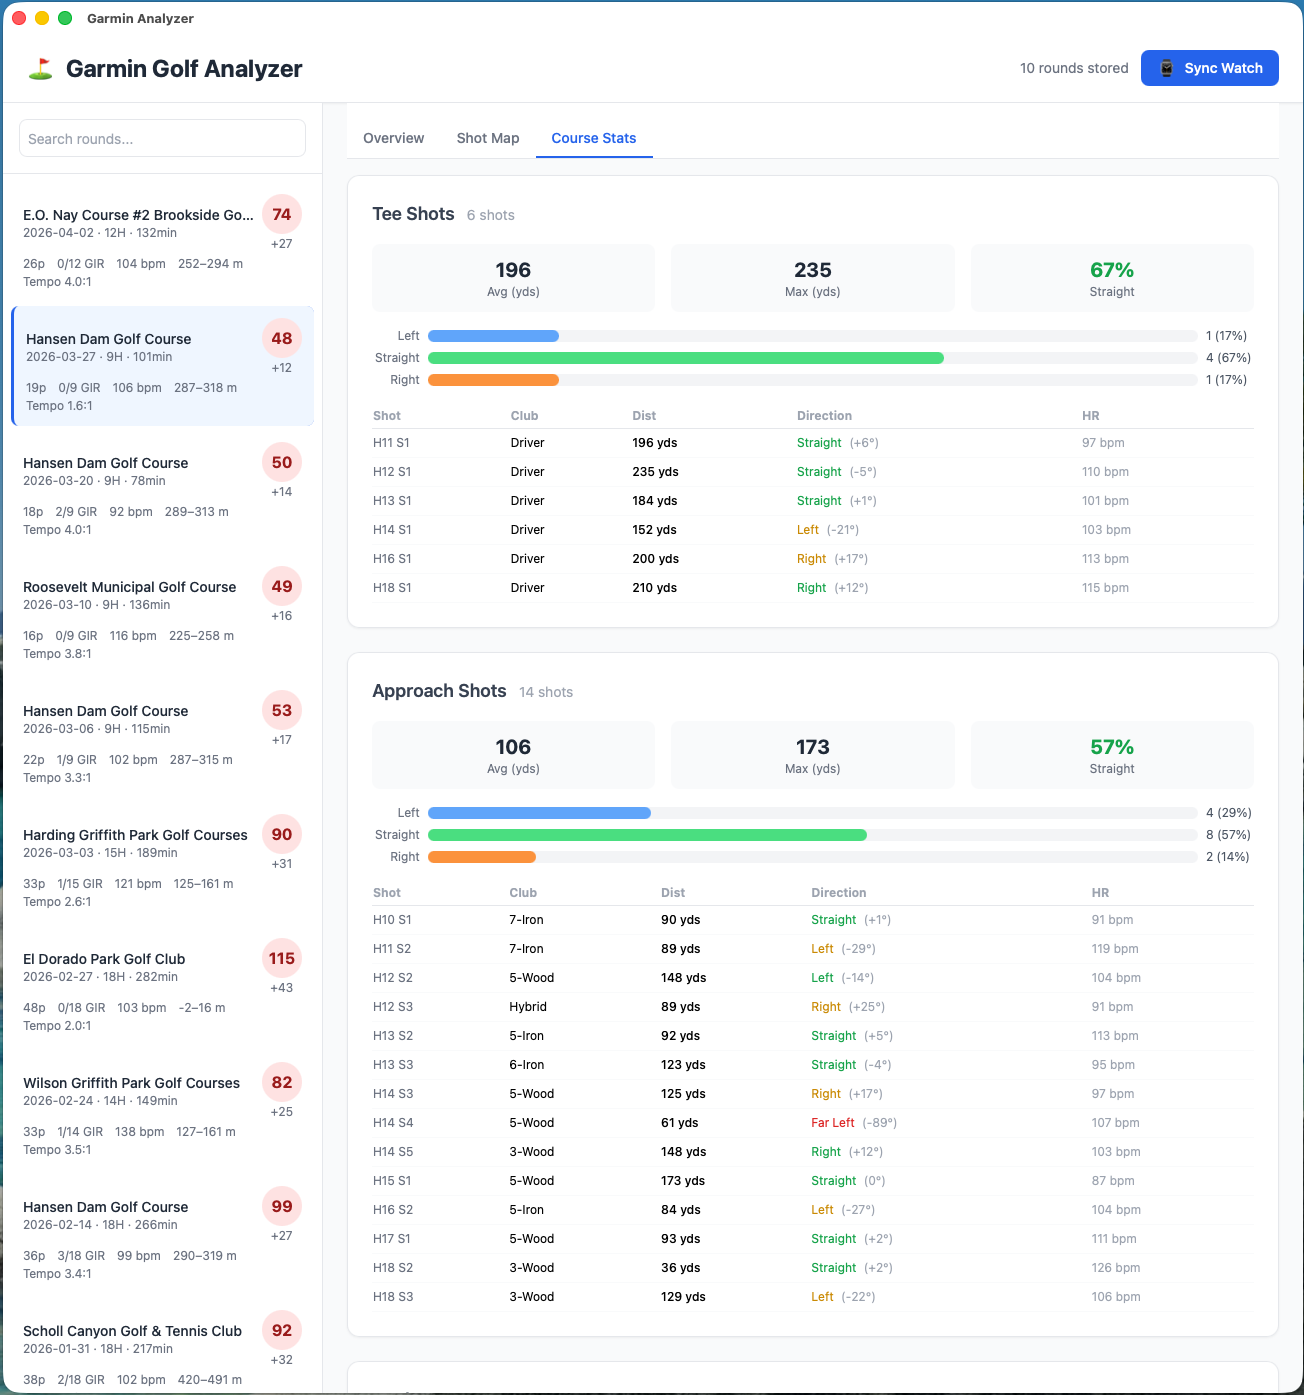
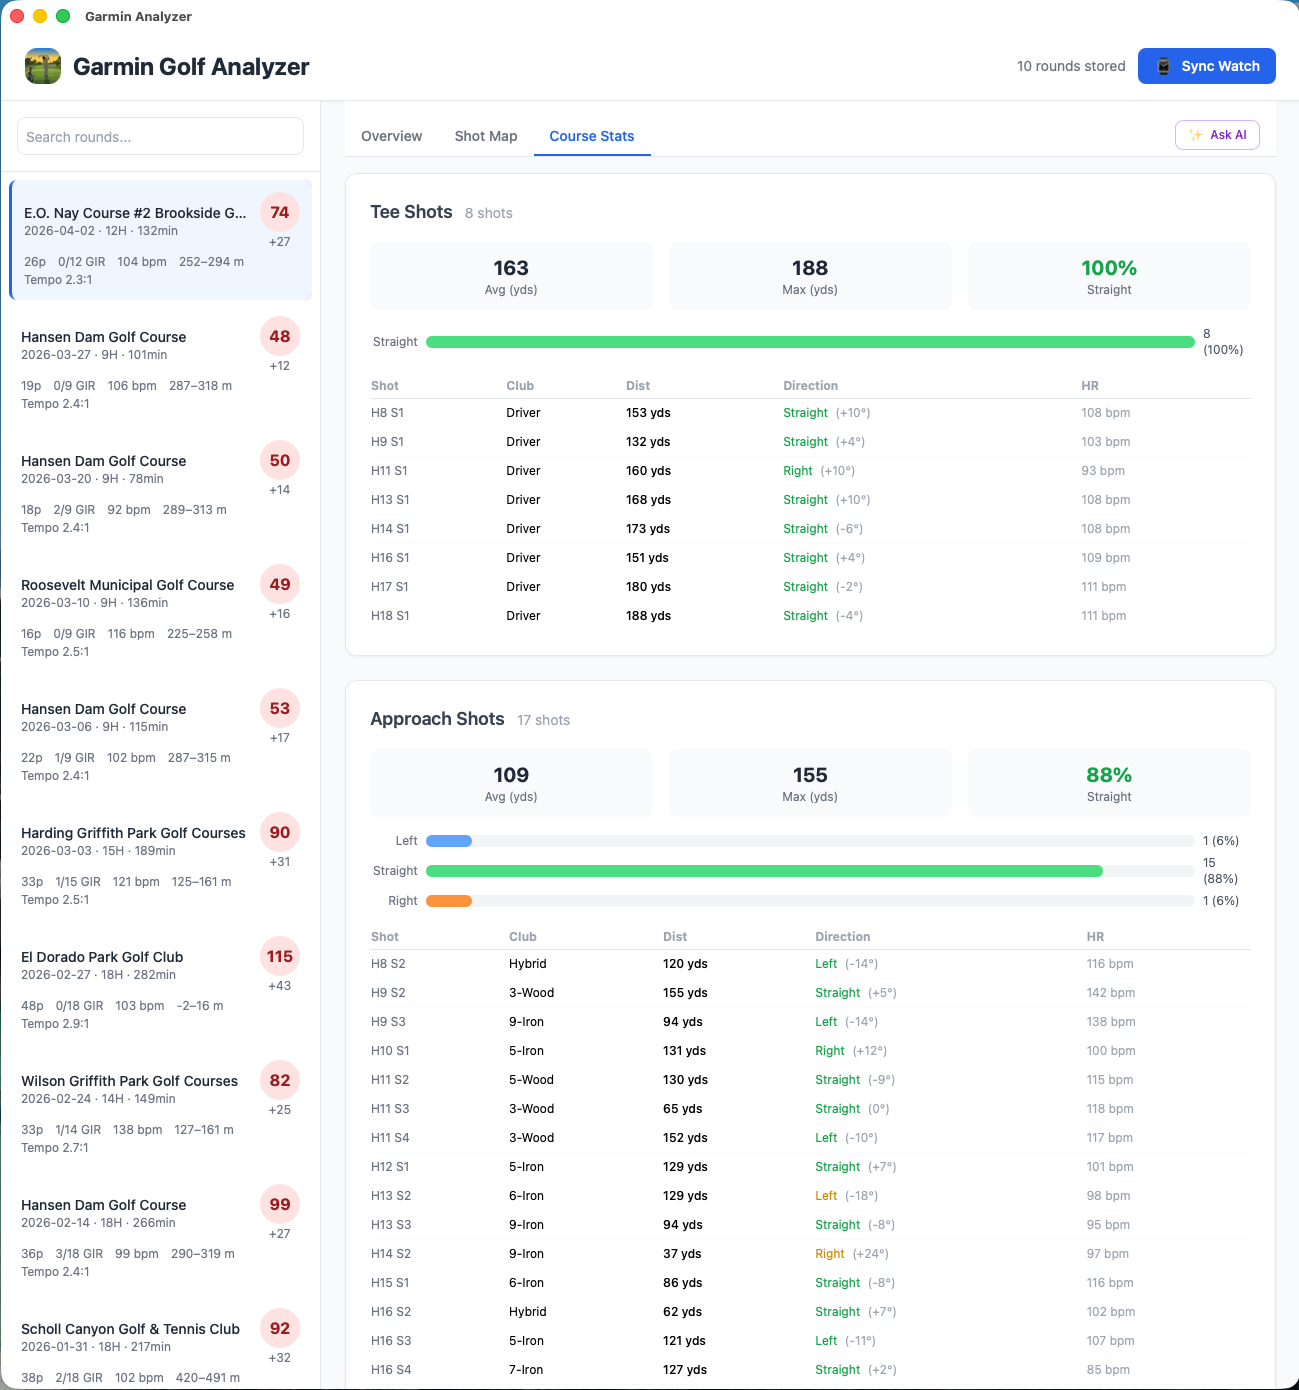
README: add Features section, swing tempo, Ask AI, updated screenshots

diff --git a/README.md b/README.md
@@ -11,6 +11,38 @@ Garmin watches store golf activity data in two separate FIT files per round:
 
 This app reads both files, links them by timestamp, and presents a combined view of golf performance and health data.
 
+## Features
+
+### Overview Tab
+Round summary with score, distance walked, calories, avg/max HR, altitude range, and avg swing tempo. Includes a hole-by-hole scorecard with color-coded results (eagle/birdie/par/bogey), GIR, fairways hit, and a health section showing Body Battery drain, stress, and HR zone breakdown.
+
+### Shot Map Tab
+Interactive Leaflet map showing every shot as a colored line and dot, color-coded by club category (Driver, Fairway Wood, Iron, Wedge, Putter). Features:
+- Hole selector buttons to zoom into individual holes
+- Club abbreviation labels (`Dr`, `W3`, `I7`, `PW`, `H` etc.) next to each shot dot
+- Distance in yards on each shot line
+- Putt count shown inline next to each hole number marker
+- Hover popups on shots, labels, and hole markers showing club, distance, HR, altitude, and swing tempo
+- Scroll/double-click zoom disabled — use `+`/`−` buttons only
+- Round Timeline chart below the map showing HR, altitude, stress, and swing tempo over time with hole markers
+
+![Shot Map](images/shotmap1.png)
+![Shot Map — hole detail](images/shotmap2.png)
+
+### Course Stats Tab
+Breakdown of tee shots, approach shots, wedges, and putting with direction analysis (left/straight/right), avg/max distance, and a club summary table.
+
+![Course Stats](images/coursestats1.png)
+![Course Stats — club summary](images/coursestats2.png)
+
+### Swing Tempo
+Swing tempo is captured from mesg #104 in the activity FIT file as a 5-minute rolling average. The ratio (backswing:downswing) is displayed in the round header, on the timeline chart as green dots, and in individual shot popups when available.
+
+### Ask AI
+The ✨ Ask AI button builds a comprehensive markdown prompt from all round data — scorecard, shot details, swing tempo, and a full 1-minute health timeline (HR, altitude, stress, tempo) — and copies it to the clipboard ready to paste into [Gemini](https://gemini.google.com) or [ChatGPT](https://chatgpt.com).
+
+![Ask AI](images/ask-ai.png)
+
 ## Download
 
 Pre-built macOS binaries are available on the [Releases page](https://github.com/nicechester/garmin-golf-analyzier/releases).
@@ -19,14 +51,6 @@ Pre-built macOS binaries are available on the [Releases page](https://github.com
 
 ### Overview
 ![Overview](images/overview.png)
-
-### Shot Map
-![Shot Map](images/shotmap1.png)
-![Shot Map — hole detail](images/shotmap2.png)
-
-### Course Stats
-![Course Stats](images/coursestats1.png)
-![Course Stats — club summary](images/coursestats2.png)
 
 ## Architecture
 
